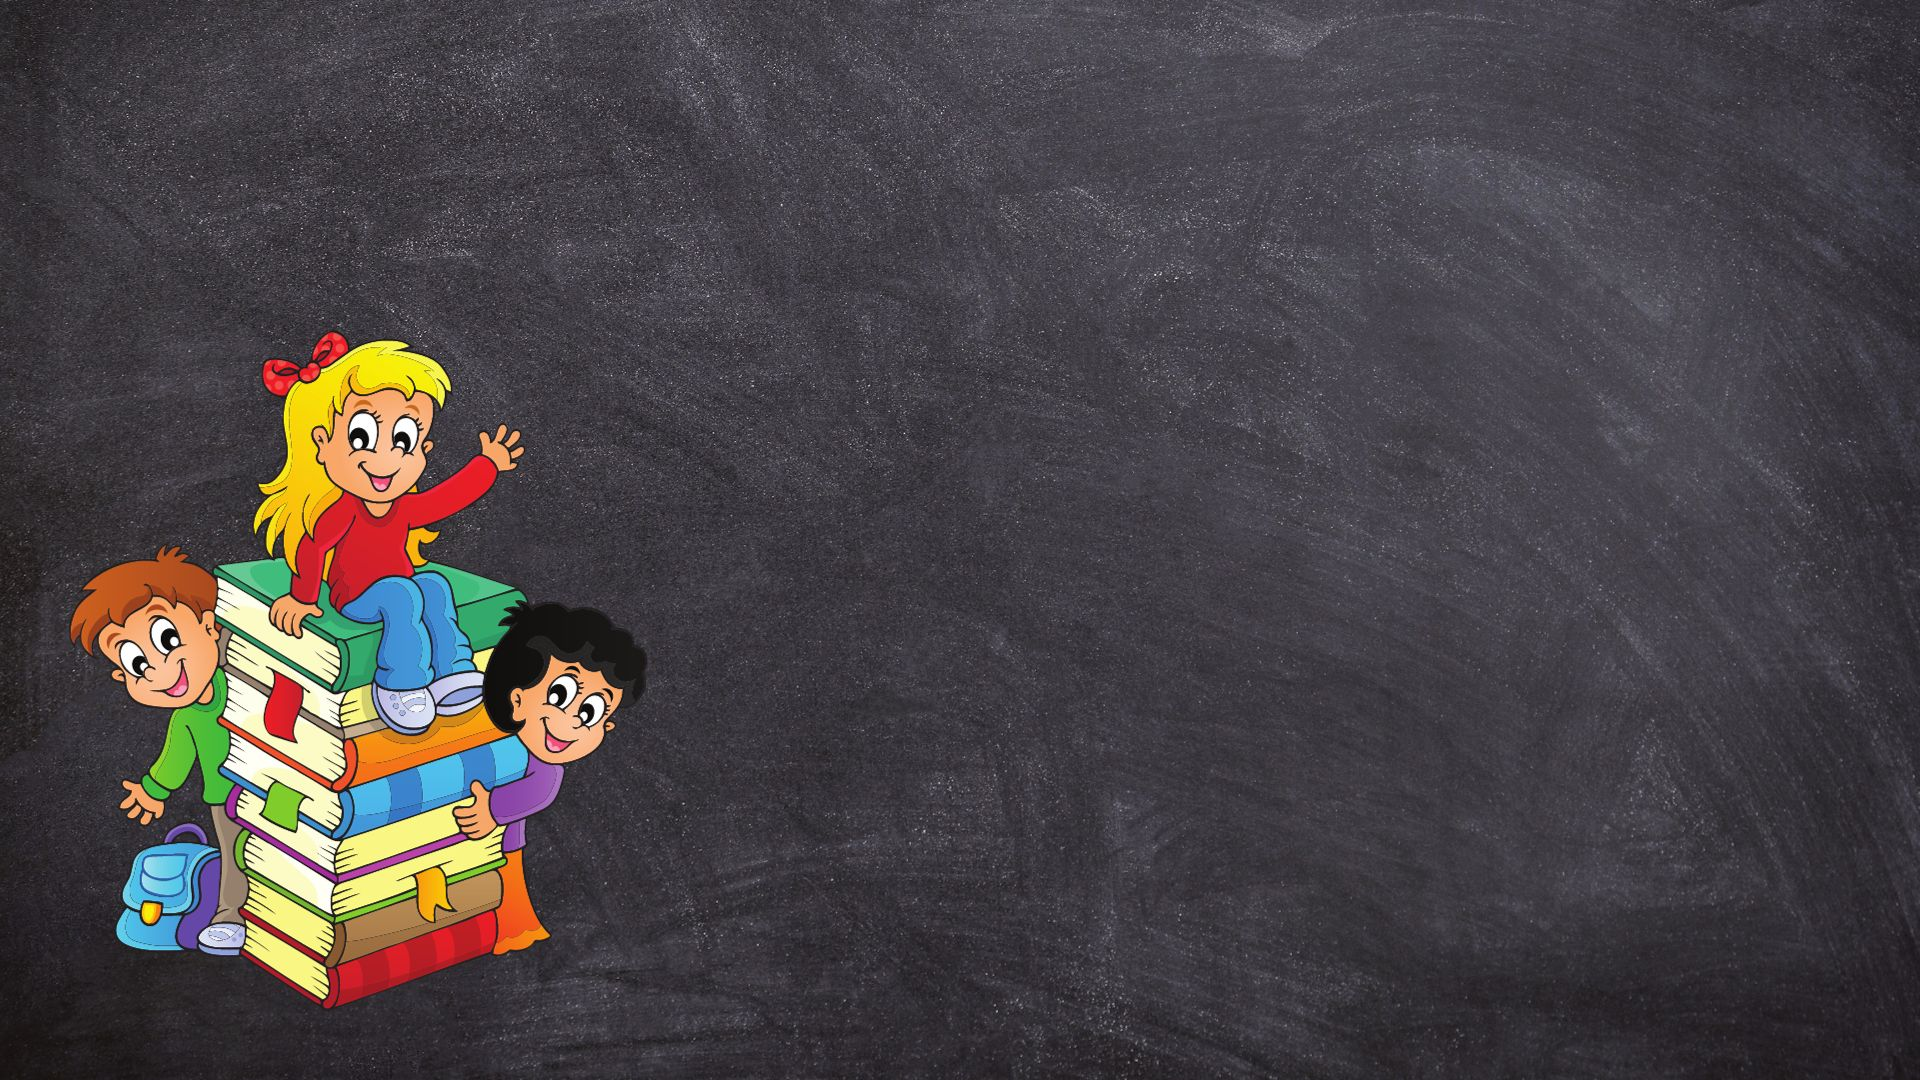
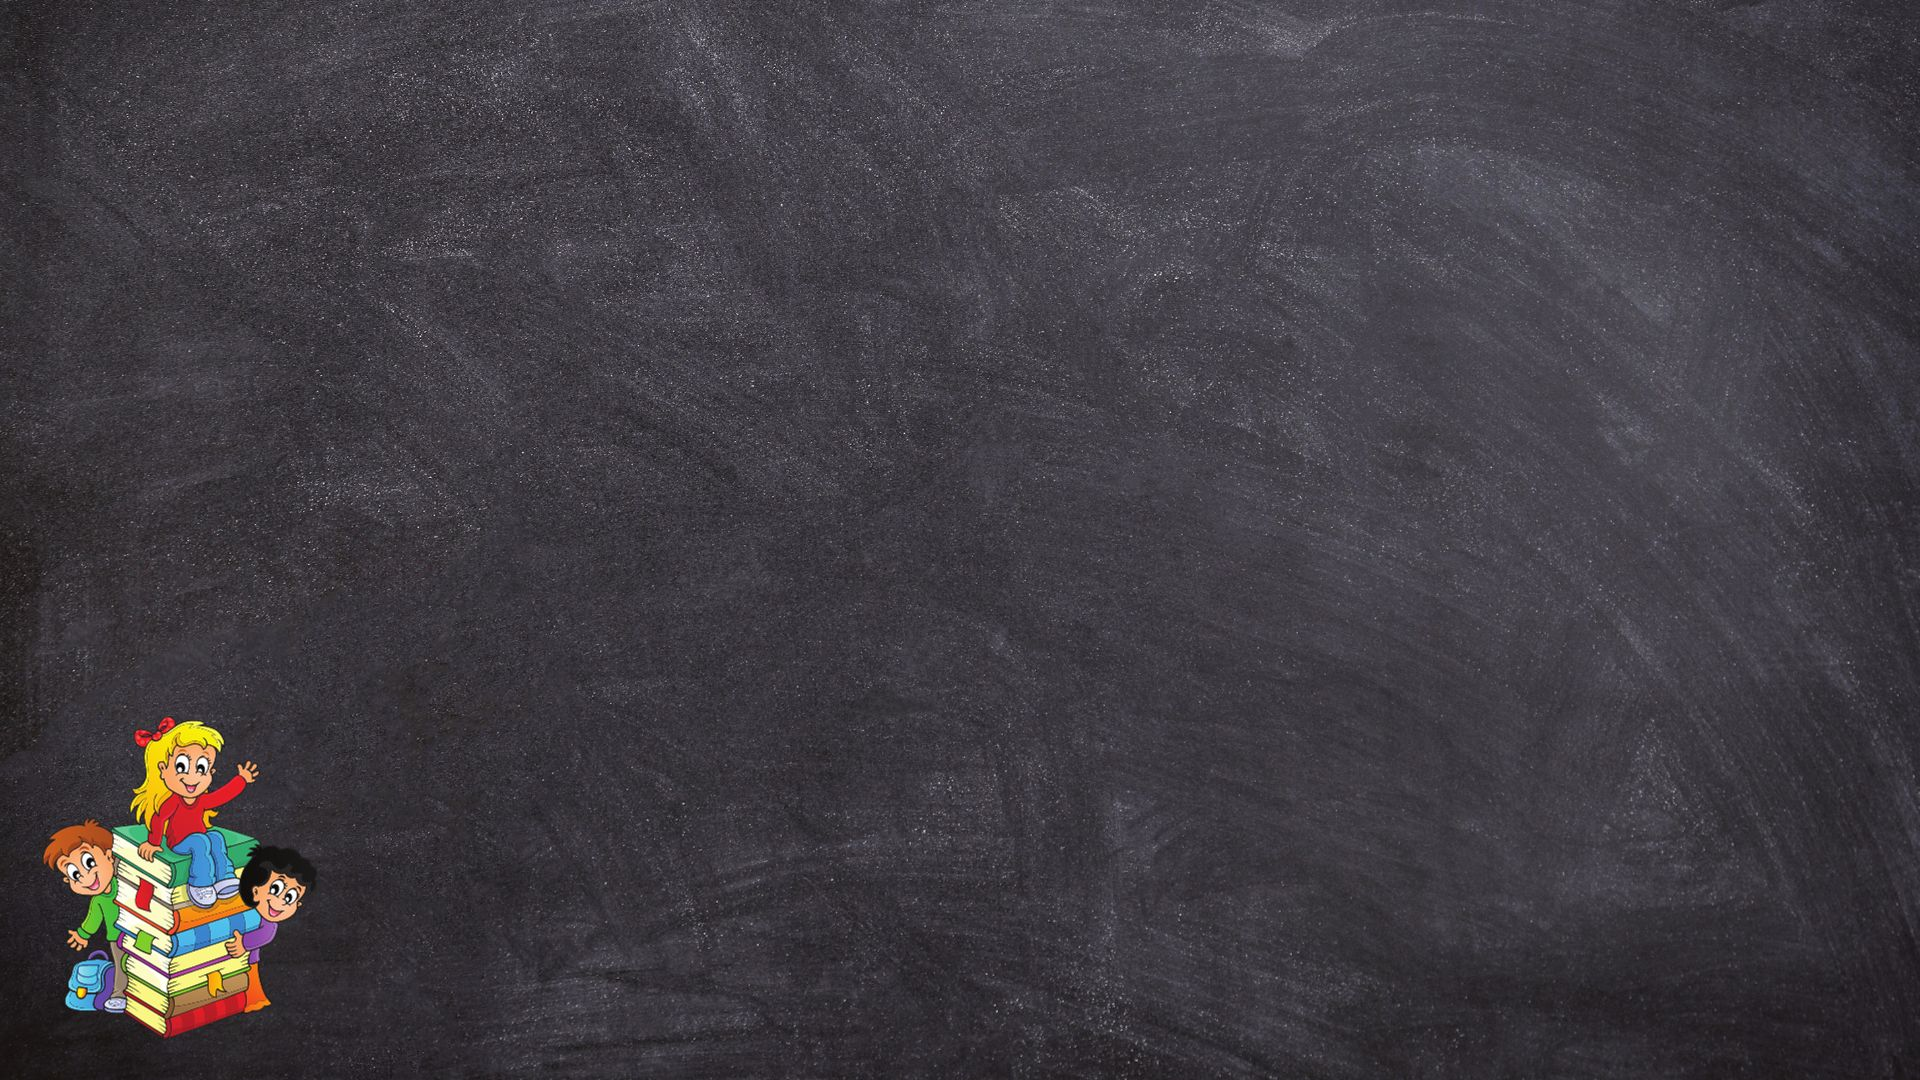
fixed dad joke appearance

Changed region(s): [[0.0, 0.3056, 0.3438, 0.9778]]

diff --git a/templates/web/dadjoke.html b/templates/web/dadjoke.html
@@ -6,18 +6,19 @@
         <link rel="preconnect" href="https://fonts.gstatic.com" crossorigin>
         <link href="https://fonts.googleapis.com/css2?family=Butterfly+Kids&display=swap" rel="stylesheet">
         <style>
-            body { background-image: url("{% static 'web/img/dadjoke.jpg' %}"); }
+            body { background-image: url("{% static 'web/img/chalkboard.jpg' %}"); }
             table.menu {
                 font-family: 'Butterfly Kids', cursive;
-                font-size: 8vw;
+                font-size: 7vw;
                 color: white;
-                margin: 0px;           
+                margin: 50px 80px 20px 20px; 
+                text-align: justify; 
             }
             #table-wrapper {
-            	height: 900px;
-	            width: 1920px;
+            	height: 1000px;
+	            width: 1900px;
 	            padding: 0px;
-	            margin: 150px 0px 0px 0px;
+	            margin: 0px 0px 0px 0px;
 	            overflow: auto;
             }
 
@@ -27,16 +28,15 @@
     <body>
         <div id="table-wrapper">
         <table class="menu">
-            <tr height="50%"><td colspan=2></td></tr>
-            <tr height="50%"><td width="40%"></td>
-                <td width="60%">
-                    {% if dad_joke %}
-                        {{ dad_joke }}
-                    {% else %}
-                        Why are giraffes so slow to apologize? Because it takes them a long time to swallow their pride.
-                    {% endif %}
-                </td>
-            </tr>
+            <tr><td><img alt="header" src="{% static 'web/img/kids.png' %}"></td></tr>
+            <tr>                
+                <td>
+                {% if dad_joke %}
+                    {{ dad_joke }}
+                {% else %}
+                    Why are giraffes so slow to apologize? Because it takes them a long time to swallow their pride.
+                {% endif %}
+                </td>         </tr>
         </table>
         </div>
     </body>
